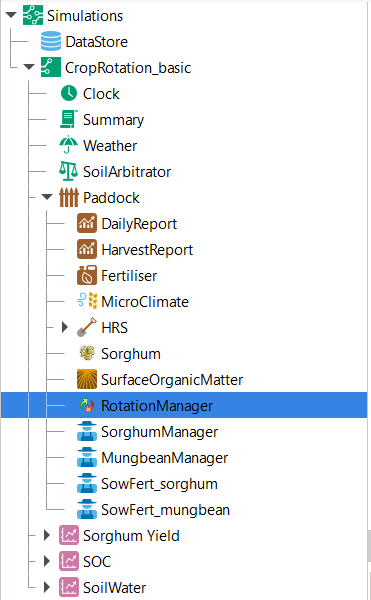
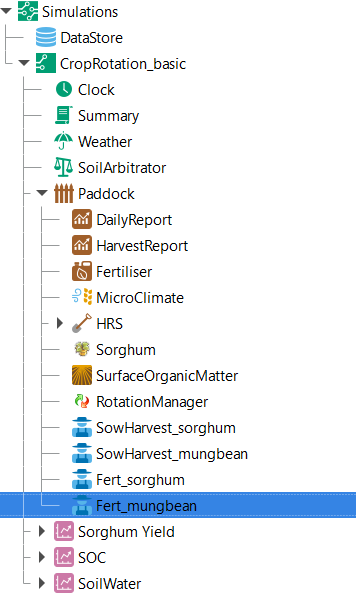
renamed managers and updated screenshot

Changed region(s): [[0.0, 0.0, 1.0, 1.0]]

diff --git a/docs/crop rotations and sequences.rst b/docs/crop rotations and sequences.rst
@@ -90,16 +90,16 @@ Here, we will copy a useful script that manages crop sowing and harvesting and u
 To copy the script, expand the simulation tree and navigate to ``Crop Pasture`` > ``Field``, copy the ``OatsManager``, 
 and paste it into the ``Paddock`` *node* of our simulation *"CropRotation_basic"*.
 As we will need two of these manager scripts, paste it a second time into the ``Paddock`` *node*.
-Rename the manger *nodes* to ``SorghumManager`` and ``MungbeanManager``.
+Rename the manger *nodes* to ``SowHarvest_sorghum`` and ``SowHarvest_mungbean``.
 
 For fertilisation, we can instead continue to use our previous manager script.
 Please copy the ``Fertilise at sowing`` script, so that we again have two versions of it.
-Rename the managers to ``SowFert_sorghum`` and ``SowFert_mungbean``.
+Rename the managers to ``Fert_sorghum`` and ``Fert_mungbean``.
 The resulting simulation tree should now look similar to the following:
 
 .. figure:: _static/APSIMscreenshot_SimTreeWithManagers.png
    :alt: SimTreeWithManagers
-   :width: 35%
+   :width: 50%
 
    Simulation tree with updated manager scripts.
 
